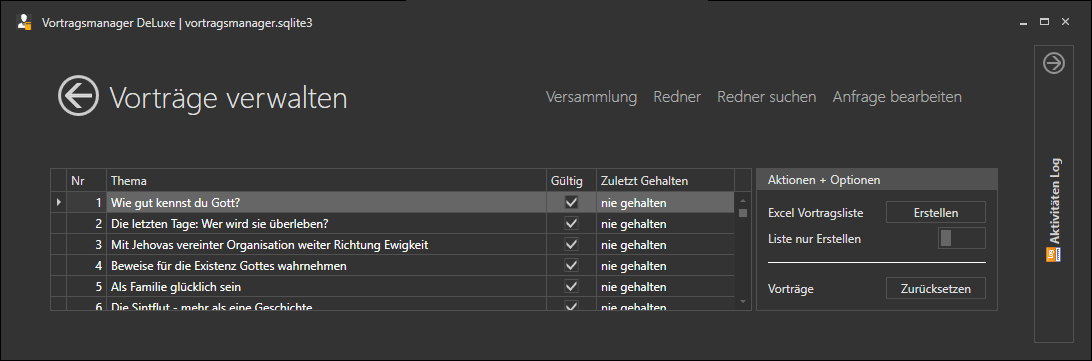
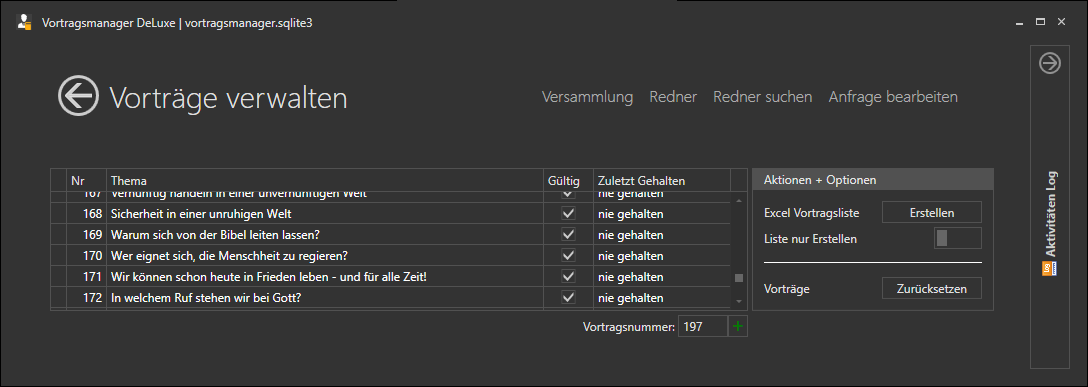
Vortrag hinzufügen

diff --git a/Vortragsmanager/MeineVerwaltung/VorträgeView.xaml b/Vortragsmanager/MeineVerwaltung/VorträgeView.xaml
@@ -54,7 +54,32 @@
                                         ReadOnly="True"
                                         Width="40" />
                         </dxg:GridControl>
-                    </dxlc:LayoutGroup>
+                    <StackPanel Orientation="Horizontal" HorizontalAlignment="Right" VerticalAlignment="Top"
+                                ToolTip="Bitte eine neue Vortragsnummer eingeben und auf + klicken. Vorhandene Vortragsnummern können nicht eingegeben werden.">
+                        <Label Content="Vortragsnummer: "/>
+                        <dxe:TextEdit x:Name="numericEditor"
+                                      MaskType="Numeric"
+                                      VerticalAlignment="Center"
+                                      Text="{Binding NewTalkNumber}"
+                                      Width="50"
+                                      ValidateOnTextInput="True"
+                                      Validate="numericEditor_Validate"
+                                      />
+                        <Button  Width="20" 
+                                 Height="22"
+                                 Margin="00"
+                                 Command="{Binding AddThemaCommand}"
+                                 x:Name="AddButton"
+                                 Content="+"  
+                                 FontSize="20" 
+                                 FontFamily="Arial" 
+                                 VerticalAlignment="Center" 
+                                 HorizontalAlignment="Center" 
+                                 Padding="-1"
+                                 Background="Aqua"
+                                 Foreground="Red"/>
+                    </StackPanel>
+                </dxlc:LayoutGroup>
                 <dxlc:LayoutGroup Orientation="Vertical" 
                                   HorizontalAlignment="Right" 
                                   VerticalAlignment="Top" 

diff --git a/Vortragsmanager/MeineVerwaltung/VorträgeViewModel.cs b/Vortragsmanager/MeineVerwaltung/VorträgeViewModel.cs
@@ -9,7 +9,7 @@ using Vortragsmanager.Properties;
 
 namespace Vortragsmanager.MeineVerwaltung
 {
-    public class VorträgeViewModel
+    public class VorträgeViewModel : ViewModelBase
     {
         public ObservableCollection<Datamodels.Talk> Talks { get; private set; }
 
@@ -18,11 +18,15 @@ namespace Vortragsmanager.MeineVerwaltung
             Talks = new ObservableCollection<Datamodels.Talk>(Datamodels.TalkList.Get());
             ResetCommand = new DelegateCommand(Reset);
             CreateOverviewTalkCountCommand = new DelegateCommand(CreateOverviewTalkCount);
+            AddThemaCommand = new DelegateCommand(AddThema);
+            NewTalkNumber = Talks.Select(x => x.Nummer).Max()+1;
         }
 
         public DelegateCommand ResetCommand { get; private set; }
 
         public DelegateCommand CreateOverviewTalkCountCommand { get; private set; }
+
+        public DelegateCommand AddThemaCommand { get; private set; }
 
         public bool ListeÖffnen
         {
@@ -58,6 +62,31 @@ namespace Vortragsmanager.MeineVerwaltung
         public void CreateOverviewTalkCount()
         {
             Core.IoExcel.CreateReportOverviewTalkCount(ListeÖffnen);
+        }
+
+        public void AddThema()
+        {
+            if (Talks.Any(x => x.Nummer == NewTalkNumber))
+            {
+                return;
+            }
+            var newTalk = new Datamodels.Talk(NewTalkNumber, "Neues Vortragsthema");
+            Talks.Add(newTalk);
+            Datamodels.TalkList.Add(newTalk);
+        }
+
+        private int _newTalkNumber;
+        public int NewTalkNumber
+        {
+            get
+            {
+                return _newTalkNumber;
+            }
+            set
+            {
+                _newTalkNumber = value;
+                RaisePropertyChanged();
+            }
         }
     }
 }

diff --git a/Vortragsmanager/MeineVerwaltung/VorträgeView.xaml.cs b/Vortragsmanager/MeineVerwaltung/VorträgeView.xaml.cs
@@ -35,5 +35,20 @@ namespace Vortragsmanager.MeineVerwaltung
                 }
             }
         }
+
+        private void numericEditor_Validate(object sender, DevExpress.Xpf.Editors.ValidationEventArgs e)
+        {
+            var nummer = int.Parse(e.Value.ToString(), Core.Helper.German);
+            if (Datamodels.TalkList.Find(nummer).Nummer != -1)
+            {
+                e.IsValid = false;
+                AddButton.Foreground = System.Windows.Media.Brushes.Red;
+            }
+            else
+            {
+                e.IsValid = true;
+                AddButton.Foreground = System.Windows.Media.Brushes.Green;
+            }
+        }
     }
 }
